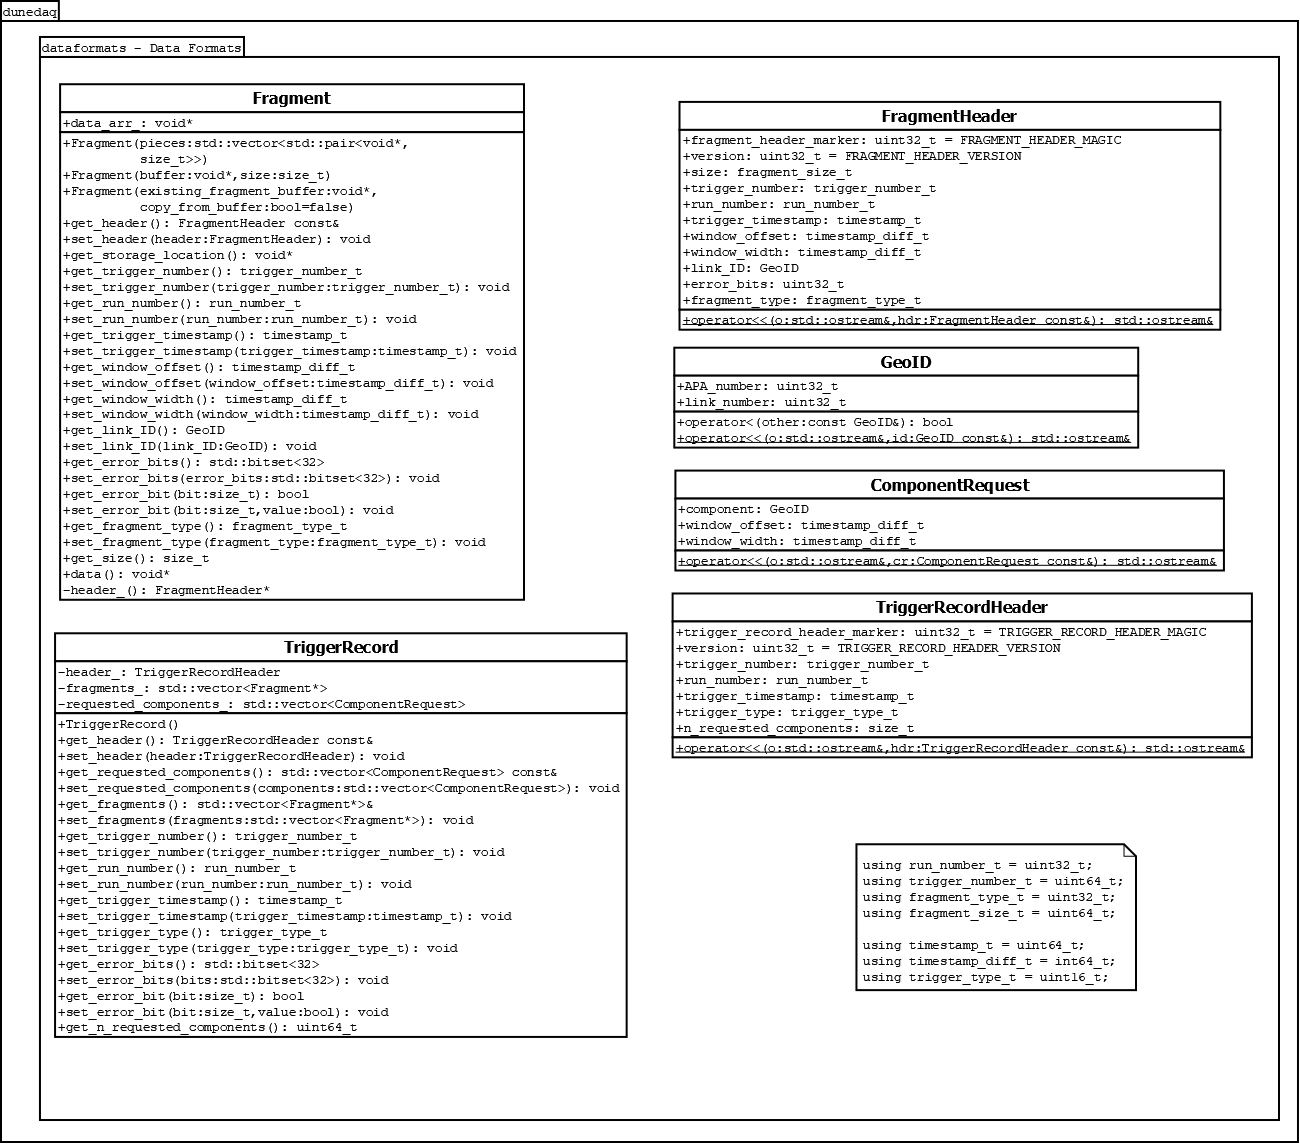
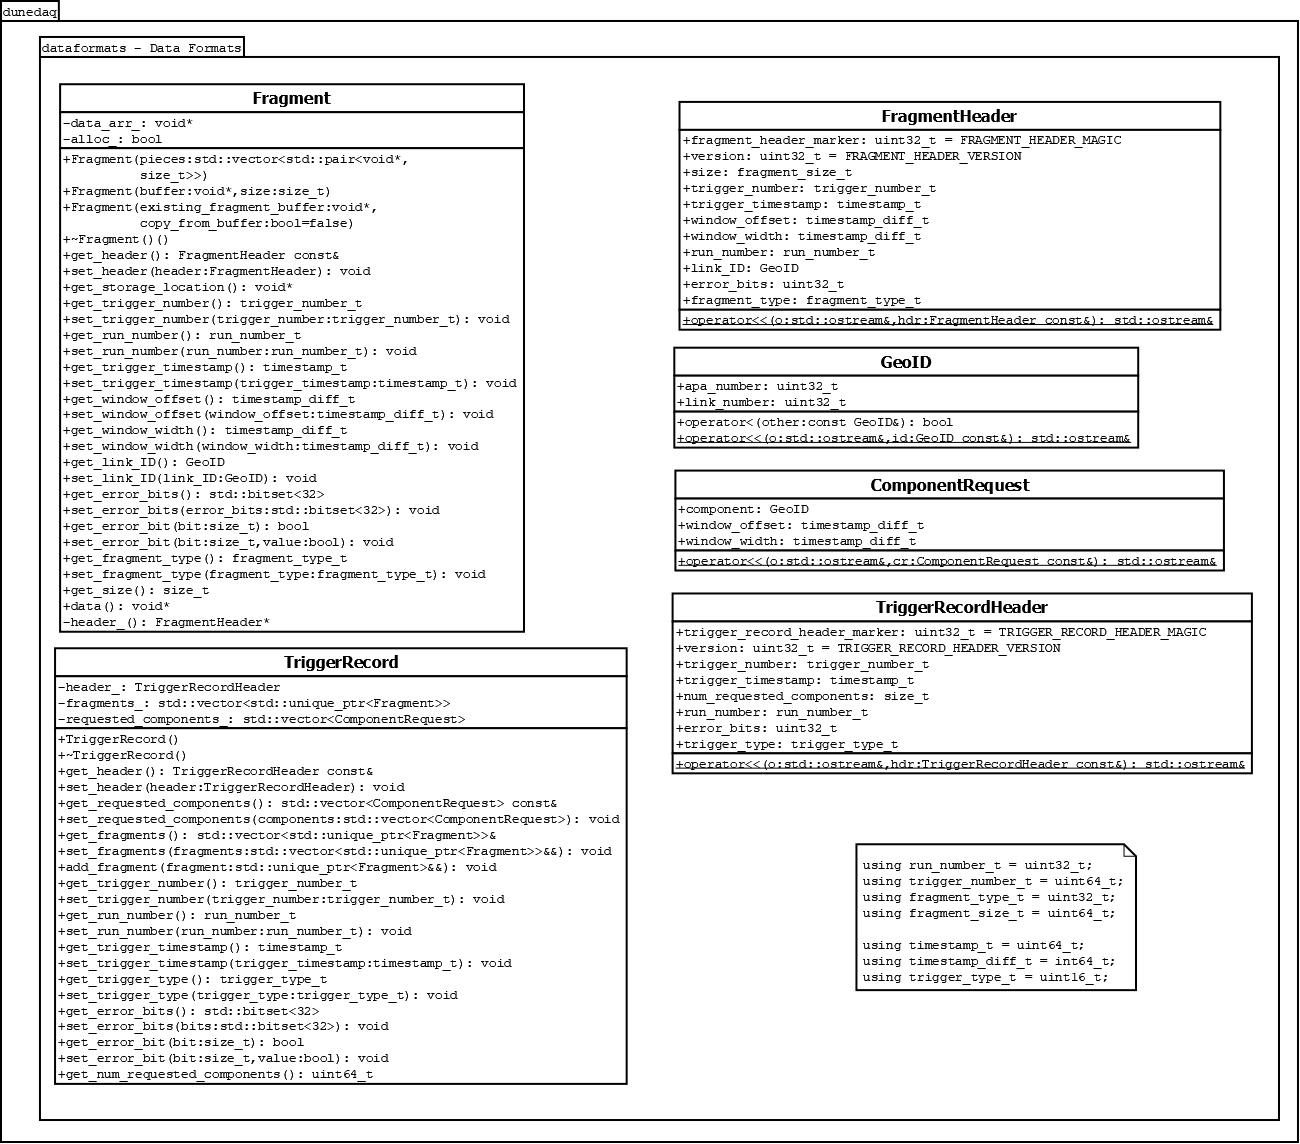
Update diagrams to match code

diff --git a/include/dataformats/GeoID.hpp b/include/dataformats/GeoID.hpp
@@ -17,12 +17,12 @@ namespace dunedaq {
 namespace dataformats {
 struct GeoID
 {
-  uint32_t APA_number;  // NOLINT(build/unsigned)
+  uint32_t apa_number;  // NOLINT(build/unsigned)
   uint32_t link_number; // NOLINT(build/unsigned)
 
   bool operator<(const GeoID& other) const
   {
-    return std::tuple(APA_number, link_number) < std::tuple(other.APA_number, other.link_number);
+    return std::tuple(apa_number, link_number) < std::tuple(other.apa_number, other.link_number);
   }
 
 };
@@ -30,7 +30,7 @@ struct GeoID
 inline std::ostream&
 operator<<(std::ostream& o, GeoID const& id)
 {
-  return o << "APA: " << id.APA_number << ", link: " << id.link_number;
+  return o << "APA: " << id.apa_number << ", link: " << id.link_number;
 }
 } // namespace dataformats
 } // namespace dunedaq
